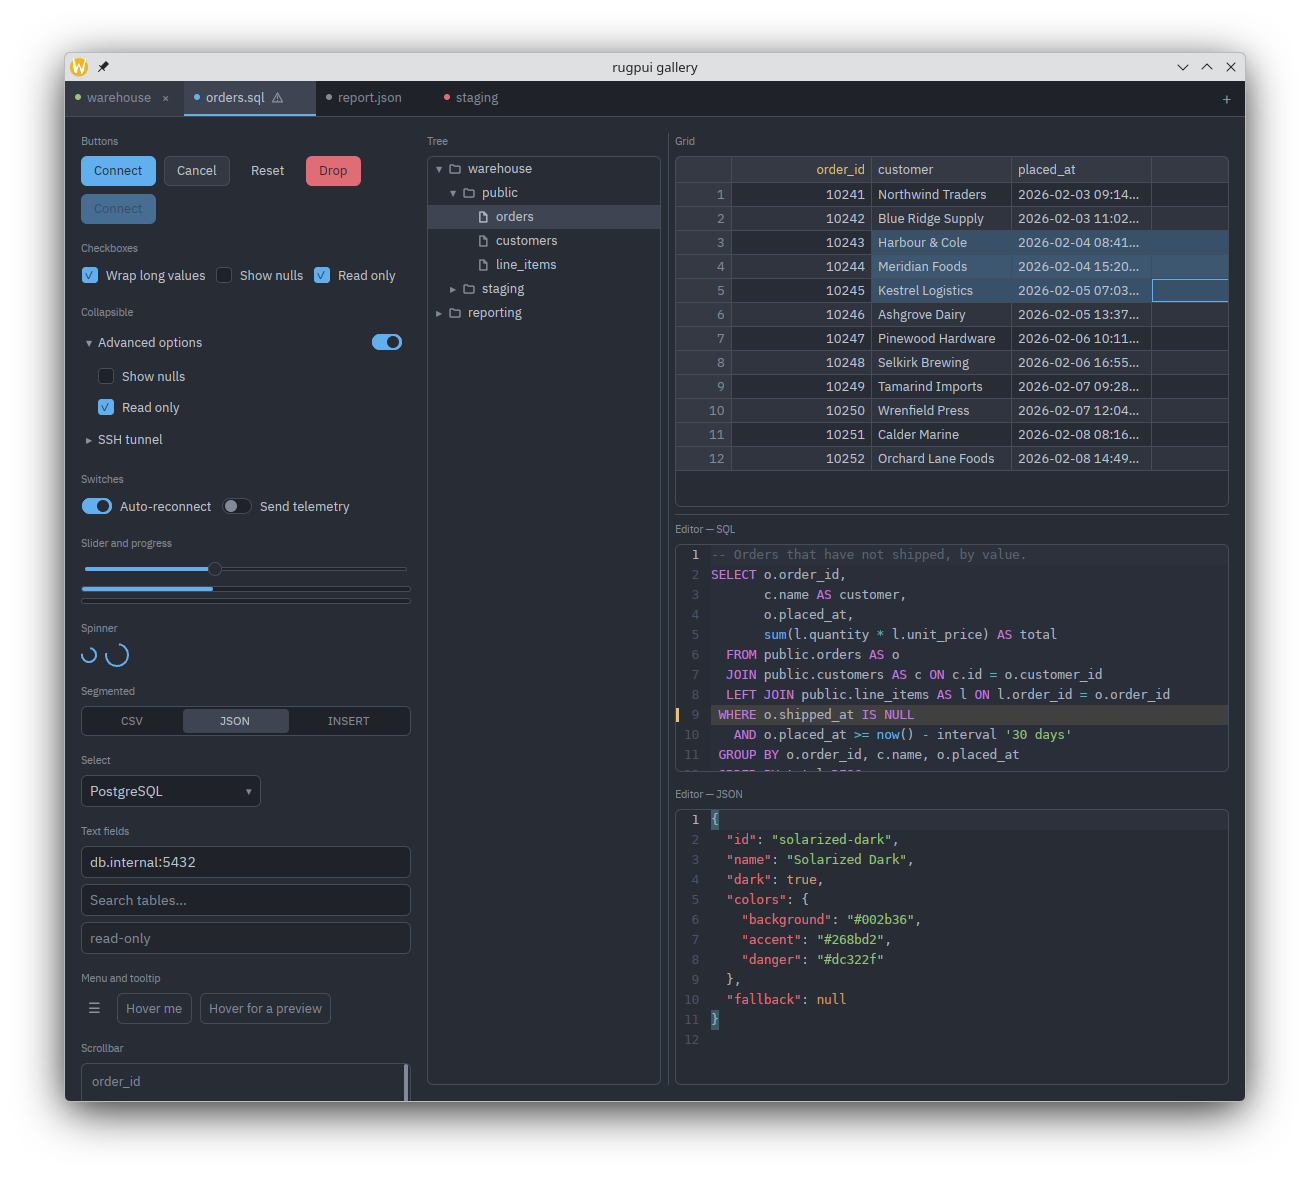
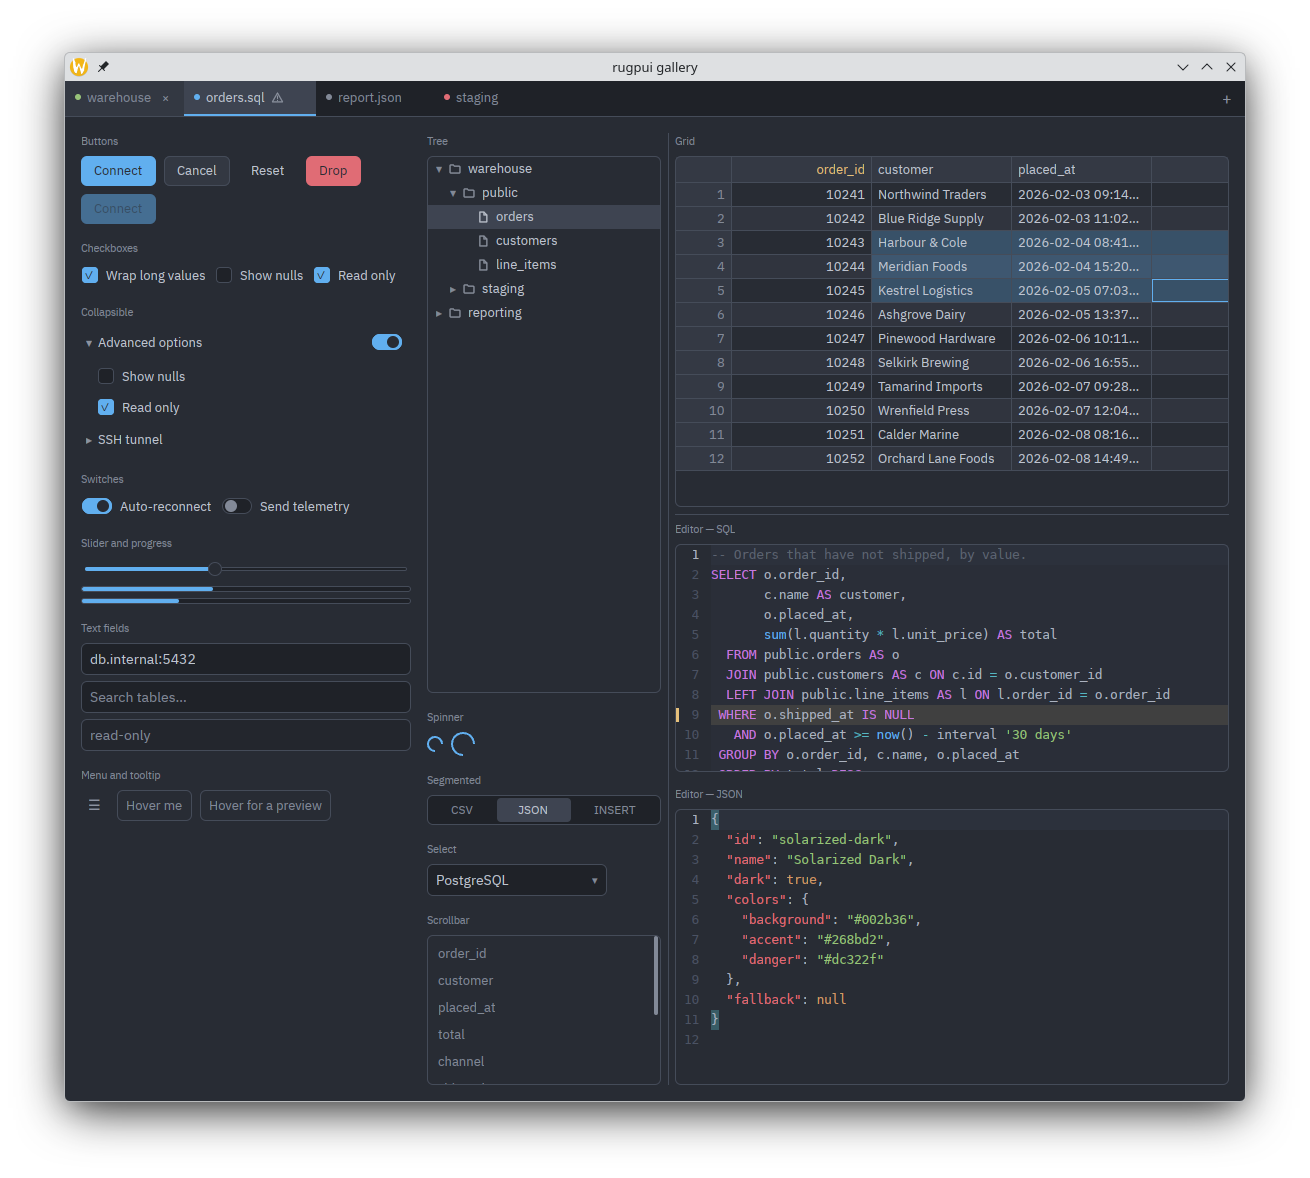
Balance the gallery's columns and give the header switch its own state
The left column had grown past the window while the tree column ended
in seven hundred pixels of nothing, so the screenshot cut the scroll bar
in half. The four small widgets that fit a narrow column — the spinner,
the segmented control, the select and the scrolled list — now sit under
the tree, and the tree keeps a two-hundred-pixel floor so they cannot
squeeze it away.

The switch in the "Advanced options" header was wired to the same field
as "Auto-reconnect", so flipping one flipped the other; a demonstration
should not look like a bug. It has a field of its own now.

diff --git a/crates/rugpui-gallery/src/main.rs b/crates/rugpui-gallery/src/main.rs
@@ -212,6 +212,10 @@ struct Gallery {
     /// Whether each of the two fold-away sections is open.
     advanced_open: bool,
     ssh_open: bool,
+    /// The switch in the "Advanced options" header — its own value, not the
+    /// one the "Switches" section drives, so toggling one leaves the other
+    /// alone.
+    advanced_on: bool,
     /// The three text fields: one with a value, one empty, one disabled.
     filled: Entity<TextInput>,
     empty: Entity<TextInput>,
@@ -298,6 +302,7 @@ impl Gallery {
             select_open: false,
             menu_open: false,
             advanced_open: true,
+            advanced_on: true,
             ssh_open: false,
             filled,
             empty,
@@ -344,6 +349,10 @@ impl Gallery {
     }
 
     /// The left-hand column: the small widgets a form is built out of.
+    ///
+    /// The four stateless indicators and pickers — spinner, segmented control,
+    /// select and scrollbar — live in the middle column instead, under the
+    /// tree, so that this column is short enough to fit beside it.
     fn controls(&self, cx: &mut Context<Self>) -> Div {
         let palette = theme(cx);
         let this = cx.entity();
@@ -399,12 +408,12 @@ impl Gallery {
                         // a switch nested in the header would perform both.
                         .trailing(
                             Switch::new("advanced-on", "")
-                                .checked(self.switch_on)
+                                .checked(self.advanced_on)
                                 .on_toggle({
                                     let this = this.clone();
                                     move |value, _window, cx| {
                                         this.update(cx, |gallery, cx| {
-                                            gallery.switch_on = value;
+                                            gallery.advanced_on = value;
                                             cx.notify();
                                         });
                                     }
@@ -463,58 +472,6 @@ impl Gallery {
             }))
             .child(ProgressBar::new("amount-progress").fraction(amount))
             .child(ProgressBar::new("loading").indeterminate());
-
-        let spinners = section("Spinner", &palette).child(
-            row()
-                .child(Spinner::new("spinner-small"))
-                .child(Spinner::new("spinner-large").size(px(24.))),
-        );
-
-        let segmented = section("Segmented", &palette).child(
-            Segmented::new("format")
-                .options(vec![("csv", "CSV"), ("json", "JSON"), ("insert", "INSERT")])
-                .selected(self.segment)
-                .on_select({
-                    let this = this.clone();
-                    move |index, _window, cx| {
-                        this.update(cx, |gallery, cx| {
-                            gallery.segment = index;
-                            cx.notify();
-                        });
-                    }
-                }),
-        );
-
-        let select = section("Select", &palette).child(
-            Select::new("driver")
-                .options(
-                    ["PostgreSQL", "MySQL", "Oracle", "SQLite", "SQL Server"]
-                        .map(SharedString::new_static),
-                )
-                .selected(Some(self.choice.clone()))
-                .placeholder("Pick a driver")
-                .open(self.select_open)
-                .width(px(180.))
-                .on_select({
-                    let this = this.clone();
-                    move |_index, text, _window, cx| {
-                        let text = SharedString::from(text.to_owned());
-                        this.update(cx, |gallery, cx| {
-                            gallery.choice = text;
-                            cx.notify();
-                        });
-                    }
-                })
-                .on_open_change({
-                    let this = this.clone();
-                    move |open, _window, cx| {
-                        this.update(cx, |gallery, cx| {
-                            gallery.select_open = open;
-                            cx.notify();
-                        });
-                    }
-                }),
-        );
 
         let fields = section("Text fields", &palette)
             .child(self.filled.clone())
@@ -581,12 +538,8 @@ impl Gallery {
             .child(collapsibles)
             .child(switches)
             .child(slider)
-            .child(spinners)
-            .child(segmented)
-            .child(select)
             .child(fields)
             .child(menu)
-            .child(self.list(cx))
     }
 
     /// The rich tooltip: a thumbnail, a caption and four lines of highlighted
@@ -667,8 +620,12 @@ impl Gallery {
         )
     }
 
-    /// The right-hand column: the tree, the grid and the two editors, divided
-    /// by two [`Splitter`]s.
+    /// The middle column: the tree, and under it the small stateless
+    /// indicators and pickers — spinner, segmented control, select and
+    /// scrollbar — for which a form field's two-column layout would waste
+    /// width. The right-hand column holds the grid and the two editors.
+    /// Divided from the left by one [`Splitter`], and the grid from the
+    /// editors by a second.
     ///
     /// The dividers are the point of the arrangement. The tree used to be
     /// pinned at 230 px and the grid at 256, and both numbers are now a share
@@ -683,12 +640,68 @@ impl Gallery {
         let palette = theme(cx);
         let this = cx.entity();
 
-        // Fills whatever height is left in its half, so that the column does
-        // not end in a band of nothing.
+        // Fills whatever height is left in its column, so that the column
+        // does not end in a band of nothing — but never below 200 px, so the
+        // four sections beneath it cannot squeeze the tree away entirely.
         let tree = section("Tree", &palette)
             .flex_1()
             .min_h_0()
+            .min_h(px(200.))
             .child(framed(&palette).flex_1().child(self.tree.clone()));
+
+        let spinners = section("Spinner", &palette).child(
+            row()
+                .child(Spinner::new("spinner-small"))
+                .child(Spinner::new("spinner-large").size(px(24.))),
+        );
+
+        let segmented = section("Segmented", &palette).child(
+            Segmented::new("format")
+                .options(vec![("csv", "CSV"), ("json", "JSON"), ("insert", "INSERT")])
+                .selected(self.segment)
+                .on_select({
+                    let this = this.clone();
+                    move |index, _window, cx| {
+                        this.update(cx, |gallery, cx| {
+                            gallery.segment = index;
+                            cx.notify();
+                        });
+                    }
+                }),
+        );
+
+        let select = section("Select", &palette).child(
+            Select::new("driver")
+                .options(
+                    ["PostgreSQL", "MySQL", "Oracle", "SQLite", "SQL Server"]
+                        .map(SharedString::new_static),
+                )
+                .selected(Some(self.choice.clone()))
+                .placeholder("Pick a driver")
+                .open(self.select_open)
+                .width(px(180.))
+                .on_select({
+                    let this = this.clone();
+                    move |_index, text, _window, cx| {
+                        let text = SharedString::from(text.to_owned());
+                        this.update(cx, |gallery, cx| {
+                            gallery.choice = text;
+                            cx.notify();
+                        });
+                    }
+                })
+                .on_open_change({
+                    let this = this.clone();
+                    move |open, _window, cx| {
+                        this.update(cx, |gallery, cx| {
+                            gallery.select_open = open;
+                            cx.notify();
+                        });
+                    }
+                }),
+        );
+
+        let list = self.list(cx);
 
         // Fills its half of the vertical split, rather than the fixed 256 px it
         // was pinned at before the divider existed.
@@ -758,8 +771,13 @@ impl Gallery {
                         .flex_col()
                         .size_full()
                         .min_h_0()
+                        .gap(px(16.))
                         .pr(px(7.))
-                        .child(tree),
+                        .child(tree)
+                        .child(spinners)
+                        .child(segmented)
+                        .child(select)
+                        .child(list),
                 )
                 .second(div().flex().size_full().min_w_0().pl(px(7.)).child(results))
                 .on_change(move |ratio, _window, cx| {
